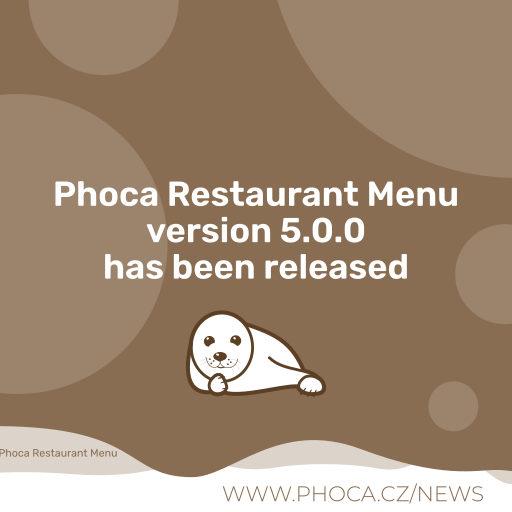
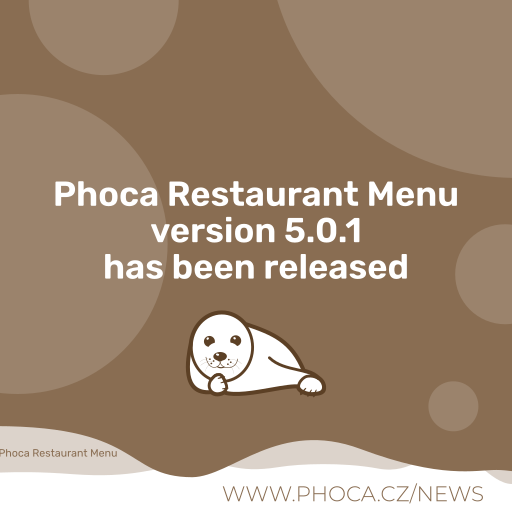
5.0.1

Changed region(s): [[0.2812, 0.4062, 0.7188, 0.5]]

diff --git a/media/css/phocamenu.css b/media/css/phocamenu.css
@@ -214,6 +214,10 @@
 	padding:1px;*/
 }
 
+#phocamenu .pmimage.pmimage-full img {
+	height: auto;
+	width: 100%;
+}
 
 /*message - description*/
 #phocamenu .pm-message {
@@ -394,6 +398,7 @@
 }
 
 
+
 /* Bootstrap */
 div.pm-customcode,
 div.pm-item-row,
@@ -403,7 +408,10 @@ div.pm-group-header-row{
 }
 
 #phocamenu .row,
-#phocamenu .row-fluid {}
+#phocamenu .row-fluid {
+
+	align-items: baseline;
+}
 
 #phocamenu .span1,
 #phocamenu .span2,

diff --git a/media/css/phocamenu-print.css b/media/css/phocamenu-print.css
@@ -44,6 +44,11 @@ a img, img,
 	max-width: none;
 }
 
+#phocamenu .pmimage.pmimage-full img{
+	height: auto;
+	width: 5rem;
+}
+
 @media print
 {
     .noPrint
@@ -51,7 +56,6 @@ a img, img,
         display:none;
     }
 }
-
 
 
 

diff --git a/admin/helpers/phocamenurenderviews.php b/admin/helpers/phocamenurenderviews.php
@@ -11,6 +11,8 @@ use Joomla\CMS\HTML\HTMLHelper;
 use Joomla\CMS\Language\Text;
 use Joomla\CMS\Factory;
 use Joomla\CMS\Component\ComponentHelper;
+use Joomla\CMS\Uri\Uri;
+
 class PhocaMenuRenderViews
 {
 
@@ -128,12 +130,21 @@ class PhocaMenuRenderViews
 
 							$image	= $tag['spaceimg'];
 
-							// PHOCAGALLERY Image  - - - - - -
-							if ((int)$tmpl['phocagallery'] == 1) {
-								$image = PhocaMenuGallery::getPhocaGalleryLink($tmpl['imagesize'], $data['item'][$i]->imageid, $data['item'][$i]->imagefilename, $data['item'][$i]->imagecatid, $data['item'][$i]->imageslug, $data['item'][$i]->imagecatslug, $paramsG['imagedetailwindow'], $tmpl['button'], $data['item'][$i]->imageextid,$data['item'][$i]->imageexts,$data['item'][$i]->imageextm,$data['item'][$i]->imageextl,$data['item'][$i]->imageextw,$data['item'][$i]->imageexth );
+							if ($data['item'][$i]->image != '') {
+								$altTitle = '';
+								if ($data['item'][$i]->title != '') {
+									$altTitle = htmlspecialchars(strip_tags($data['item'][$i]->title));
+								}
+								$image = '<div class="pmimage pmimage-full"><img src="'.Uri::base().$data['item'][$i]->image.'" alt="'.$altTitle.'" /></div>';
+							} else {
+								// PHOCAGALLERY Image  - - - - - -
+								if ((int)$tmpl['phocagallery'] == 1) {
+									$image = PhocaMenuGallery::getPhocaGalleryLink($tmpl['imagesize'], $data['item'][$i]->imageid, $data['item'][$i]->imagefilename, $data['item'][$i]->imagecatid, $data['item'][$i]->imageslug, $data['item'][$i]->imagecatslug, $paramsG['imagedetailwindow'], $tmpl['button'], $data['item'][$i]->imageextid,$data['item'][$i]->imageexts,$data['item'][$i]->imageextm,$data['item'][$i]->imageextl,$data['item'][$i]->imageextw,$data['item'][$i]->imageexth );
 
+								}
+								// - - - - - - - - - - - - - - - -
 							}
-							// - - - - - - - - - - - - - - - -
+
 
 							if (isset($data['item'][$i]->price) && $data['item'][$i]->price > 0) {
 								$price 		= PhocaMenuHelper::getPriceFormat($data['item'][$i]->price, $params);
@@ -216,14 +227,20 @@ class PhocaMenuRenderViews
 		// Remove empty table - because of TCPDF
 		$o = str_replace($tag['tableitem-o'].$tag['tableitem-c'], '', $o);
 
-
-
 		$o .= PhocaMenuHelper::renderCode($params->get( 'render_code', 1 ), $method);
+
 		return $o;
 	}
 
 
+
+
 	public static function getStyle($method, $phocaGallery, $suffix = '') {
+
+		$app						= Factory::getApplication();
+		$paramsC 					= $app->isClient('administrator') ? ComponentHelper::getParams('com_phocamenu') : $app->getParams();
+		// Bootstrap for image will have length x instead of one (must be changed in renderformitem function too)
+		$bs_image_length	= $paramsC->get( 'bs_image_length', 1 );
 
 		// 2 means, there are two prices, all the table tds must be recalculated, e.g. $tag['desc2-c'] - this is not a method
 		switch ($method) {
@@ -447,7 +464,7 @@ class PhocaMenuRenderViews
 				$tag['row-group-h-o']	= '<div class="row row-fluid pm-group-header-row">';
 				$tag['row-group-h-c']	= '</div>';
 
-				$tag['image-o']			= '<div class="span1 pmimage">'; // when changed then the count of columns must be changed too: renderFormItem (1257)
+				$tag['image-o']			= '<div class="span'.(int)$bs_image_length.' pmimage">'; // when changed then the count of columns must be changed too: renderFormItem (1257)
 				$tag['quantity-o']		= '<div class="span1 pmquantity">';
 				$tag['priceprefix-o']	= '<div class="span1 pmpriceprefix pm-right">';
 
@@ -586,7 +603,8 @@ class PhocaMenuRenderViews
 				$tag['row-group-h-o']	= '<div class="row pm-group-header-row">';
 				$tag['row-group-h-c']	= '</div>';
 
-				$tag['image-o']			= '<div class="col-xs-12 col-sm-1 col-md-1 pmimage">';// when changed then the count of columns must be changed too: renderFormItem (1257)
+				// when changed then the count of columns must be changed too: renderFormItem (1257)
+				$tag['image-o']			= '<div class="col-xs-12 col-sm-'.(int)$bs_image_length.' col-md-'.(int)$bs_image_length.' pmimage">';
 				$tag['quantity-o']		= '<div class="col-xs-12 col-sm-1 col-md-1 pmquantity">';
 				$tag['priceprefix-o']	= '<div class="col-xs-12 col-sm-1 col-md-1 pmpriceprefix pm-right">';
 
@@ -715,6 +733,9 @@ class PhocaMenuRenderViews
 		$additional_info_title		= $paramsC->get( 'additional_info_title', '' );
 		$display_additional_info	= $paramsC->get( 'display_additional_info', 1 );
 
+		// Bootstrap for image will have length x instead of one (must be changed in getStyle function too)
+		$bs_image_length	= $paramsC->get( 'bs_image_length', 1 );
+
 		// Image
 		$noImage = 1;
 		if($image == '' || $image == '&nbsp;') {
@@ -757,7 +778,7 @@ class PhocaMenuRenderViews
 			} else {
 				$row['img'] = $tag['image-o'] . $image . $tag['image-c'];
 				$desc['img']= $tag['image-o'] . '' . $tag['image-c'];
-				$c = $c + 1;//CHANGE DEPEND ON ROW 1297 (BS2) or 1365 (BS3) if span1 or com-md-1 then +1, if span2 or col-md-2 then + 2
+				$c = $c + (int)$bs_image_length;//CHANGE DEPEND ON ROW 1297 (BS2) or 1365 (BS3) if span1 or com-md-1 then +1, if span2 or col-md-2 then + 2
 			}
 
 			$row['quantity'] = $tag['quantity-o'] . $itemObject->quantity . $tag['space']  . $tag['quantity-c'];

diff --git a/site/views/dailymenu/view.xml.php b/site/views/dailymenu/view.xml.php
@@ -1,0 +1,73 @@
+<?php
+/*
+ * @package		Joomla.Framework
+ * @copyright	Copyright (C) 2005 - 2010 Open Source Matters, Inc. All rights reserved.
+ * @license		GNU General Public License version 2 or later; see LICENSE.txt
+ *
+ * @component Phoca Component
+ * @copyright Copyright (C) Jan Pavelka www.phoca.cz
+ * @license http://www.gnu.org/copyleft/gpl.html GNU General Public License version 2 or later;
+ */
+defined('_JEXEC') or die( 'Restricted access' );
+use Joomla\CMS\MVC\View\HtmlView;
+use Joomla\CMS\Factory;
+use Joomla\CMS\Uri\Uri;
+use Joomla\CMS\Router\Route;
+use Joomla\CMS\Document\Feed\FeedItem;
+jimport( 'joomla.application.component.view');
+
+class PhocaMenuViewDailyMenu extends HtmlView
+{
+    public $t;
+    public $p;
+
+	function display($tpl = null)
+	{
+		$app = Factory::getApplication();
+
+		$doc     	= Factory::getDocument();
+		$this->params 	= $app->getParams();
+		$view		= 'dailymenu';
+		$model 		= $this->getModel('Menu');
+		$data		= $model->getData(1);
+
+		// Specific items to correct links
+		$uri = Uri::getInstance();
+		$url = $uri->toString(array('scheme', 'user', 'pass', 'host', 'port'));
+
+		// Params
+		$this->p['dateclass']			= $this->params->get( 'date_class', 0 );
+		//$this->p['customclockcode']	= $this->params->get( 'custom_clock_code', '' );
+		$this->p['daydateformat']		= $this->params->get( 'day_date_format', 'l, d. F Y' );
+		$this->p['priceprefix']		= $this->params->get( 'price_prefix', '...' );
+		$this->p['displayrss']			= $this->params->get( 'display_rss', 0 );
+
+        $this->p['feed_date_format']                     = $this->params->get( 'feed_date_format', 'DATE_FORMAT_LC' );
+        $this->p['feed_root']                     = $this->params->get( 'feed_root', '' );
+        $this->p['feed_date']                     = $this->params->get( 'feed_date', '' );
+        $this->p['feed_group']                     = $this->params->get( 'feed_group', '' );
+        $this->p['feed_item']                     = $this->params->get( 'feed_item', '' );
+        $this->p['feed_item_type']                = $this->params->get( 'feed_item_type', '' );
+        $this->p['feed_item_title']			    = $this->params->get( 'feed_item_title', '' );
+        $this->p['feed_item_price']			    = $this->params->get( 'feed_item_price', '' );
+        $this->p['feed_item_additional_info']     = $this->params->get( 'feed_item_additional_info', '' );
+
+        $this->p['feed_note']     = $this->params->get( 'feed_note', '' );
+        $this->p['feed_note_type']     = $this->params->get( 'feed_note_type', '' );
+
+
+		// Phoca Gallery
+		$this->p['phocagallery']		= 0;
+		$this->p['customclockcode'] 	= '';
+		$this->paramsG					= array();
+		$button						= '';
+
+		$title = $this->escape( $data['config']->header );
+		$title = html_entity_decode( $title );
+
+		$this->t['output'] 	=  PhocaMenuRenderViews::renderDailyMenu($data, $this->p, $this->params,$this->paramsG, 7);
+
+
+		parent::display('feed');
+	}
+}

diff --git a/admin/models/phocamenuconfig.php b/admin/models/phocamenuconfig.php
@@ -77,21 +77,21 @@ class PhocaMenuCpModelPhocaMenuConfig extends AdminModel
 		$date = Factory::getDate();
 		$user = Factory::getUser();
 
-		$table->title		= htmlspecialchars_decode($table->title, ENT_QUOTES);
+		$table->title		= htmlspecialchars_decode((string)$table->title, ENT_QUOTES);
 		$table->alias		= ApplicationHelper::stringURLSafe((string)$table->alias);
 
 		if (empty($table->alias)) {
 			$table->alias = ApplicationHelper::stringURLSafe((string)$table->title);
 		}
 
-		if ($table->date_from == '0') {
+		if ($table->date_from == '0' || $table->date_from == '') {
 			$table->date_from = '00-00-00 00:00:00';
 		}
-		if ($table->date_to == '0') {
+		if ($table->date_to == '0' || $table->date_to == '') {
 			$table->date_to = '00-00-00 00:00:00';
 		}
 
-		if ($table->date == '0') {
+		if ($table->date == '0' || $table->date == '') {
 			$table->date = '00-00-00 00:00:00';
 		}
 
@@ -157,6 +157,7 @@ class PhocaMenuCpModelPhocaMenuConfig extends AdminModel
 
 	}
 }
+// utf-8 Test: xxx
 
 
 ?>

diff --git a/admin/views/phocamenuitem/tmpl/edit.php b/admin/views/phocamenuitem/tmpl/edit.php
@@ -38,7 +38,7 @@ echo $r->startTabs();
 
 echo $r->startTab('general', $tabs['general'], 'active');
 
-$formArray 		= array ('title', 'quantity', 'price', 'price2', 'catid', 'imageid', 'additional_info', 'ordering');
+$formArray 		= array ('title', 'quantity', 'price', 'price2', 'catid', 'imageid', 'image', 'additional_info', 'ordering');
 echo $r->group($this->form, $formArray);
 
 echo '<input type="hidden" name="jform[type]" id="jform_type" value="'.(int)$this->item->type.'" />';

diff --git a/admin/views/phocamenuinfo/tmpl/default.php b/admin/views/phocamenuinfo/tmpl/default.php
@@ -49,6 +49,7 @@ echo '<h3>'.  Text::_($this->t['l'] . '_TRANSLATION').': '. Text::_($this->t['l'
         .'<p>'.Text::_($this->t['l'] . '_TRANSLATION_SUPPORT_URL').'</p>';
 
 ?>
+
 <?php
 
 echo '<input type="hidden" name="task" value="" />'

diff --git a/admin/helpers/phocamenu.php b/admin/helpers/phocamenu.php
@@ -450,7 +450,6 @@ class PhocaMenuHelper
 				$typeInfo['root']			= '&view=phocamenugroups&type=1';
 			break;
 
-
 			case -1:
 				// All items
 				$typeInfo['catid']			= 'gid';

diff --git a/admin/controllers/phocamenuconfig.php b/admin/controllers/phocamenuconfig.php
@@ -405,6 +405,7 @@ class PhocaMenuCpControllerPhocaMenuConfig extends PhocaMenuControllerForm
 		}
 	}
 }
+// utf-8 Test: xxx
 
 
 ?>
